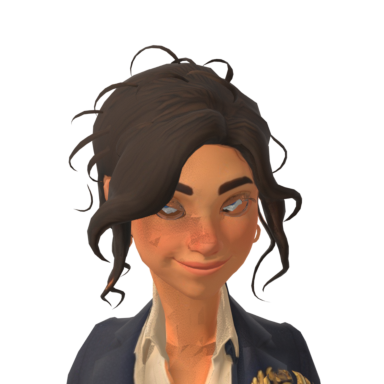
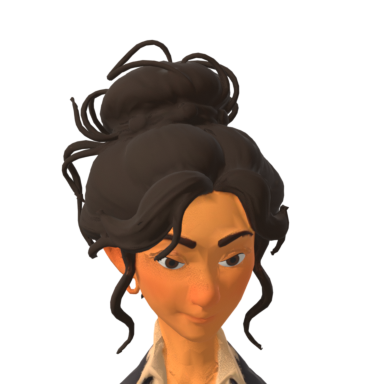
Every NPC plays with real eyes
Alex approved the real eyes for the NPCs, so each one's model in data/characters.json is now its
_eyes GLB (Wren, Barbara, Gary, Giorgio, Sabrina, Steve, Rosa, Max and Lars): they blink, look
about, take the story's moods and shut their eyes asleep. model_painted_eyes keeps the model before.
The _eyes GLBs carry the same loops as the painted ones, and the sweaters were fitted on them.

The cast check now asks for the face too, so a villager back on painted eyes fails it. Wren's
eight portraits are re-rendered from her real-eyed model, since portraits come from the model
she plays with.

Full autotest: Wren's real-eyes check and the eight-faces check pass. The other failures don't
come from this change: an A/B on the same commit with the painted models shows the API-busy chat
camera check, the dog's gallop and Nora's jog failing or passing the same either way (timing under
load), and the quilt and saved-layout checks are other sessions' work.

Changed region(s): [[0.1562, 0.0938, 0.8438, 1.0]]

diff --git a/AGENTS.md b/AGENTS.md
@@ -95,7 +95,7 @@ Alex arranges the map himself in the game: Settings > God mode > "Edit the world
 - The state is `Game.flags["mail"]` (it saves with the game; numbers come back from JSON as floats, so read them with `int()`). Letters are copied into it whole when they arrive, so editing `mail.json` changes only letters not yet delivered.
 - The letters panel (`hud.letters`, `scripts/letters_panel.gd`) opens from the mailbox or Menu > Letters.
 - Story (Alex, 2026-11-13): Gran (Ellie) is alive. She has gone to Florida to her sister Dot's for her chest, and Nora looks after the farm while she's away. Gran writes to her by post.
-- Story (Alex, 2026-11-13): there is no legal fight over a house or the farm (the lawyer's voicemail is now Max's own). Instead Max, Nora's ex, who was abusive, visits after about four hours of play to win her back (`max_visit_hours` in `data/economy.json` "story", counted in `Game.flags["play_secs"]`; `_update_max_visit()` in `main.gd`). He was called Daniel in earlier drafts; save version 7 (`Game._rename_daniel()`) renames him in older saves. He is a visitor (`main.visitor()`): a Villager made for his scene, found by story scenes through `_villager()`, not in `villagers` (the town's cast), and gone when the scene ends. He plays in his own model (`data/characters.json` "max", rigged on Mixamo; his real-eyed model is `model_eyes`).
+- Story (Alex, 2026-11-13): there is no legal fight over a house or the farm (the lawyer's voicemail is now Max's own). Instead Max, Nora's ex, who was abusive, visits after about four hours of play to win her back (`max_visit_hours` in `data/economy.json` "story", counted in `Game.flags["play_secs"]`; `_update_max_visit()` in `main.gd`). He was called Daniel in earlier drafts; save version 7 (`Game._rename_daniel()`) renames him in older saves. He is a visitor (`main.visitor()`): a Villager made for his scene, found by story scenes through `_villager()`, not in `villagers` (the town's cast), and gone when the scene ends. He plays in his own model (`data/characters.json` "max", rigged on Mixamo, with real eyes).
 
 ## The knitted sweaters: `scripts/sweaters.gd`, `data/sweaters.json`
 
@@ -175,7 +175,7 @@ Seated story scenes: the seated loops put the seat at the character's origin, so
 
 Her grip: Nora's rig has no finger bones, so `tools/add_grip.py` adds a `grip_R` shape key to her body that curls her right hand's fingers into a fist round a handle across the palm, and the game turns it on while she holds a tool (`_update_held_tool` in `scripts/main.gd`, which puts each tool's handle through that fist: `FIST_C`, `TOOL_HOLD`). `add_eyes.py` starts its blend afresh, so run the grip after it: `Blender -b tools/character_build/nora_tripo_eyes/nora_tripo_eyes.blend -P tools/add_grip.py -- "$PWD" nora_tripo`, then import. `--review` adds the key without saving, for render checks. `--only=hud` saves a close-up of her fist round each tool, `47_fist_<tool>.png`. The same script makes her knitting hands: `knit_R` and `knit_L` close three fingers of each hand round a needle (the index finger nearly straight, the thumb on top), and `scripts/body.gd` turns them on with the SitKnit loop. It also turns SitKnit's arms palm down (`KNIT_TWIST`), keeps a fifth of its stroke (`KNIT_SWING`; at full swing the tips parted), swings the elbows out over the chair's arms with the hands left where they were (`KNIT_SPREAD`), all recorded on the action so a second run doesn't add to them, and lays the needles (the `KnitProps` mesh) through the two fists with the tips crossing, the work hanging from the left needle. The full autotest checks the knitting grip and saves `02d_knit_hands.png`.
 
-Eyes: `tools/add_eyes.py` (rebuilt 2026-11-13 after Alex found the first eyes "terrible") cuts a clean almond opening in the head for each eye and puts a plain sphere eyeball behind it, with two thin lids on spheres round the same centre that close over it. Each eye's outline is measured by hand from the front map into the script's `EYES` table (`--probe` writes `_front_map.png`, `--region x0 x1 z0 z1` looks elsewhere, `--overlay` draws the outline over it to check). The painted eyes, their liner and lid lines are painted out of the albedo; a new lid rim rolls from the face into the opening, and the rim and lids use a seamless skin patch (`<id>_eyes_skin.png`) so there are no seams at the corners. The build log checks the head for torn or doubled edges and reports one clean loop round each opening. Re-rigging or re-targeting a model means running it again afterwards, since it starts from `tools/character_build/<id>/<id>.blend`. The six NPCs, Rosa, Max and Lars have the new eyes (`model_eyes` in `data/characters.json`; Max's and Lars's irises are set larger, `iris=11.0`, or they stared; Lars's `loose=1` also paints out the lash flicks painted above his outer corners); Nora and Rowan still carry the first version and have no `EYES` entry yet. In the game, story lines set the speaker's mood on their eyes, `@eyes <who> closed|open|<mood>` does it without a line, and `body.set_eyes_closed()` shuts them for sleep.
+Eyes: `tools/add_eyes.py` (rebuilt 2026-11-13 after Alex found the first eyes "terrible") cuts a clean almond opening in the head for each eye and puts a plain sphere eyeball behind it, with two thin lids on spheres round the same centre that close over it. Each eye's outline is measured by hand from the front map into the script's `EYES` table (`--probe` writes `_front_map.png`, `--region x0 x1 z0 z1` looks elsewhere, `--overlay` draws the outline over it to check). The painted eyes, their liner and lid lines are painted out of the albedo; a new lid rim rolls from the face into the opening, and the rim and lids use a seamless skin patch (`<id>_eyes_skin.png`) so there are no seams at the corners. The build log checks the head for torn or doubled edges and reports one clean loop round each opening. Re-rigging or re-targeting a model means running it again afterwards, since it starts from `tools/character_build/<id>/<id>.blend`. The six NPCs, Rosa, Max and Lars have the new eyes and play with them (Alex approved them on 2026-11-13: each one's `model` in `data/characters.json` is its `_eyes` GLB, and `model_painted_eyes` keeps the one before; Max's and Lars's irises are set larger, `iris=11.0`, or they stared; Lars's `loose=1` also paints out the lash flicks painted above his outer corners); Nora and Rowan still carry the first version and have no `EYES` entry yet. In the game, story lines set the speaker's mood on their eyes, `@eyes <who> closed|open|<mood>` does it without a line, and `body.set_eyes_closed()` shuts them for sleep.
 
 ## Rules
 

diff --git a/README.md b/README.md
@@ -42,7 +42,7 @@ The game opens on a title screen (Continue, New Game, Settings, Quit) over the f
     - **Barbara**: the postwoman, kind and full of wise advice. At nine every morning she walks the post to every door in town and out to Nora's mailbox
     - **Rowan**: the shepherd (below)
     - **Lars**: the farmer next door, very chill and easygoing, and a possible romance. He lives in the loft of the big barn by Nora's farm and rents her its stalls for her sheep: 60c a month from the day her first sheep are penned, paid to him in person (`data/economy.json` "story" `barn_rent`, `scripts/homestead.gd`). He wears his own model, rigged on Mixamo
-  - The eight new faces (Rosa's and Lars's since 2026-11-13) wear their Tripo models (`data/characters.json`), with painted eyes until Alex approves their real eyes (`model_eyes`)
+  - The eight new faces (Rosa's and Lars's since 2026-11-13) wear their Tripo models (`data/characters.json`), with real eyes that blink, look about and take the story's moods (Alex approved them on 2026-11-13)
   - daily market prices
   - a wool shop where you can also buy sheep
   - Rosewood Cottage, which you can buy, furnish and rent out (hidden for now: `Town.COTTAGE_ON` in `scripts/town.gd`)
